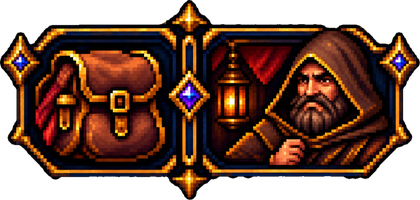
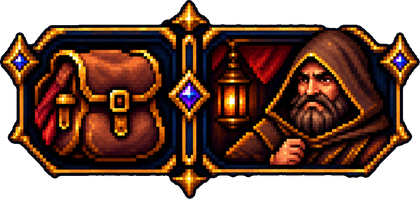
v85: contorno do botao com espessura uniforme
Claude-Session: https://claude.ai/code/session_01YFC38PcyDKAfPNhJ7r1cKG

diff --git a/sw.js b/sw.js
@@ -1,4 +1,4 @@
-const CACHE='bd1-rpg-v84';
+const CACHE='bd1-rpg-v85';
 const ASSETS=['./','./index.html','./game.html','./lobby.js','./bag_panel.png','./bag_button.png','./menu_meta.js','./menu_assassin.png','./menu_mage.png','./menu_knight.png','./menu_tank.png','./menu_elem.png','./icon_tipo_sword.png','./lobby.css','./select_plate.webp','./char_mage.webp','./char_knight.webp','./char_tank.webp','./char_assassin.webp','./panel_mage.webp','./panel_knight.webp','./panel_tank.webp','./panel_assassin.webp','./style.css','./app.js','./anim.js','./mage.js','./cleric.js','./tank.js','./knight.js','./fxsoft.js','./knight/K1_1.png','./knight/K1_10.png','./knight/K1_11.png','./knight/K1_13.png','./knight/K1_14.png','./knight/K1_15.png','./knight/K1_19.png','./knight/K1_2.png','./knight/K1_20.png','./knight/K1_21.png','./knight/K1_22.png','./knight/K1_23.png','./knight/K1_24.png','./knight/K1_25.png','./knight/K1_26.png','./knight/K1_27.png','./knight/K1_28.png','./knight/K1_29.png','./knight/K1_30.png','./knight/K1_31.png','./knight/K1_32.png','./knight/K1_35.png','./knight/K1_37.png','./knight/K1_4.png','./knight/K1_41.png','./knight/K1_42.png','./knight/K1_44.png','./knight/K1_45.png','./knight/K1_46.png','./knight/K1_49.png','./knight/K1_5.png','./knight/K1_6.png','./knight/K1_7.png','./knight/K1_8.png','./knight/K1_9.png','./knight/K2_10.png','./knight/K2_11.png','./knight/K2_13.png','./knight/K2_14.png','./knight/K2_15.png','./knight/K2_16.png','./knight/K2_17.png','./knight/K2_18.png','./knight/K2_19.png','./knight/K2_2.png','./knight/K2_20.png','./knight/K2_21.png','./knight/K2_22.png','./knight/K2_23.png','./knight/K2_24.png','./knight/K2_25.png','./knight/K2_26.png','./knight/K2_28.png','./knight/K2_29.png','./knight/K2_3.png','./knight/K2_30.png','./knight/K2_32.png','./knight/K2_33.png','./knight/K2_34.png','./knight/K2_35.png','./knight/K2_37.png','./knight/K2_38.png','./knight/K2_39.png','./knight/K2_4.png','./knight/K2_41.png','./knight/K2_42.png','./knight/K2_43.png','./knight/K2_44.png','./knight/K2_45.png','./knight/K2_46.png','./knight/K2_5.png','./knight/K2_6.png','./knight/K2_7.png','./knight/K2_8.png','./knight/K2_9.png','./knight/K3_1.png','./knight/K3_10.png','./knight/K3_11.png','./knight/K3_12.png','./knight/K3_13.png','./knight/K3_14.png','./knight/K3_15.png','./knight/K3_16.png','./knight/K3_17.png','./knight/K3_18.png','./knight/K3_2.png','./knight/K3_20.png','./knight/K3_21.png','./knight/K3_22.png','./knight/K3_23.png','./knight/K3_24.png','./knight/K3_25.png','./knight/K3_26.png','./knight/K3_27.png','./knight/K3_28.png','./knight/K3_29.png','./knight/K3_3.png','./knight/K3_30.png','./knight/K3_31.png','./knight/K3_32.png','./knight/K3_33.png','./knight/K3_34.png','./knight/K3_35.png','./knight/K3_36.png','./knight/K3_37.png','./knight/K3_38.png','./knight/K3_39.png','./knight/K3_4.png','./knight/K3_40.png','./knight/K3_41.png','./knight/K3_42.png','./knight/K3_43.png','./knight/K3_44.png','./knight/K3_45.png','./knight/K3_46.png','./knight/K3_47.png','./knight/K3_48.png','./knight/K3_5.png','./knight/K3_6.png','./knight/K3_7.png','./knight/K3_8.png','./knight/K3_9.png','./knight/fx_ice.png','./knight/fx_rocksA.png','./knight/fx_rock1.png','./knight/fx_rock2.png','./knight/fx_rock3.png','./knight/fx_rock4.png','./knight/fx_slash.png','./knight/meta.json','./clr/at1.png','./clr/at2.png','./clr/at3.png','./clr/bg1.png','./clr/bg2.png','./clr/bg3.png','./clr/bg4.png','./clr/bp1.png','./clr/bp2.png','./clr/bp3.png','./clr/br1.png','./clr/br2.png','./clr/br3.png','./clr/br4.png','./clr/br5.png','./clr/br6.png','./clr/bt1.png','./clr/bt2.png','./clr/bt3.png','./clr/bt4.png','./clr/d1.png','./clr/d2.png','./clr/d3.png','./clr/d4.png','./clr/dg1.png','./clr/dg2.png','./clr/dg3.png','./clr/dn1.png','./clr/dn2.png','./clr/dn3.png','./clr/ds1.png','./clr/ex1.png','./clr/fx_aura.png','./clr/fx_burst.png','./clr/fx_cross1.png','./clr/fx_lotus.png','./clr/fx_pillar.png','./clr/fx_pillar2.png','./clr/fx_ring1.png','./clr/fx_ring2.png','./clr/fx_ring3.png','./clr/fx_star1.png','./clr/fx_star2.png','./clr/fx_star3.png','./clr/fx_star4.png','./clr/fx_streak1.png','./clr/fx_streak2.png','./clr/fx_streak3.png','./clr/fx_sunstar.png','./clr/hat1.png','./clr/hat2.png','./clr/idle1.png','./clr/meta.json','./clr/pr1.png','./clr/pr2.png','./clr/stf.png','./clr/ult1.png','./clr/ult2.png','./clr/v1.png','./clr/v2.png','./mage3/air.png','./mage3/atk1.png','./mage3/atk2.png','./mage3/atk3.png','./mage3/bh1.png','./mage3/bh2.png','./mage3/castdef.png','./mage3/defair.png','./mage3/defearth.png','./mage3/deffire.png','./mage3/defmana.png','./mage3/defwater.png','./mage3/dodge1.png','./mage3/dodge2.png','./mage3/dodge3.png','./mage3/dodge4.png','./mage3/earth.png','./mage3/fire.png','./mage3/fx_air_swirl.png','./mage3/fx_bh_big.png','./mage3/fx_bh_big2.png','./mage3/fx_bh_small.png','./mage3/fx_bh_spikes.png','./mage3/fx_bolt.png','./mage3/fx_comet.png','./mage3/fx_cross.png','./mage3/fx_crystal.png','./mage3/fx_earth_spikes.png','./mage3/fx_fire_fall.png','./mage3/fx_mana_aura.png','./mage3/fx_orb_blue.png','./mage3/fx_orb_orange.png','./mage3/fx_orb_red.png','./mage3/fx_orbb.png','./mage3/fx_ring_floor.png','./mage3/fx_rock.png','./mage3/fx_rocks.png','./mage3/fx_star_big.png','./mage3/fx_star_small.png','./mage3/fx_water_pillar.png','./mage3/fx_whirl.png','./mage3/idle1.png','./mage3/idle2.png','./mage3/idle3.png','./mage3/idle4.png','./mage3/meta.json','./mage3/spin1.png','./mage3/spinwide.png','./mage3/stars.png','./mage3/swingf.png','./mage3/swingl.png','./mage3/swingr.png','./mage3/water.png','./anim/manifest.json','./spr_mage.webp','./spr_knight.webp','./spr_tank.webp','./spr_assassin.webp','./spr_boss.webp','./game_clean.png','./game_nohud.png','./hud_mage.png','./hud_knight.png','./hud_tank.png','./hud_assassin.png','./question_panel.png','./icon_attack.png','./icon_coin.png','./manifest.webmanifest','./potion_hp.png','./potion_mana.png','./tank/a_bub.png','./tank/a_cr.png','./tank/a_dust.png','./tank/a_hh.png','./tank/a_i1.png','./tank/a_i2.png','./tank/a_lo.png','./tank/a_rd.png','./tank/a_rl1.png','./tank/a_rl2.png','./tank/a_s1.png','./tank/a_s2.png','./tank/a_sw.png','./tank/a_swl.png','./tank/d_a1.png','./tank/d_a2.png','./tank/d_a3.png','./tank/d_a4.png','./tank/d_e1.png','./tank/d_e2.png','./tank/d_e3.png','./tank/d_e4.png','./tank/d_f1.png','./tank/d_f2.png','./tank/d_f3.png','./tank/d_h1.png','./tank/d_h2.png','./tank/d_h3.png','./tank/d_h4.png','./tank/d_i1.png','./tank/d_i2.png','./tank/d_i3.png','./tank/d_m1.png','./tank/d_m2.png','./tank/d_m3.png','./tank/d_m4.png','./tank/d_p1.png','./tank/d_p3.png','./tank/d_u1.png','./tank/d_u2.png','./tank/fx_bring.png','./tank/fx_bspike.png','./tank/fx_earth.png','./tank/fx_rockburst.png','./tank/meta.json','./tank/n1.png','./tank/n2.png','./tank/n3.png','./tank/p1.png','./tank/tA.png','./tank/tB.png','./tank/tC.png','./tank/v1.png','./tank/v2.png','./tank/v3.png','./tank/v4.png'];
 // Tudo em cache (abre instantâneo, até offline). Em segundo plano o SW confere a rede (requisição condicional, barata);
 // se algum arquivo mudou, atualiza o cache e avisa a página, que recarrega sozinha (menu) ou mostra o aviso (jogo).

diff --git a/README.md b/README.md
@@ -325,3 +325,4 @@ Guerreiro: âncora das poses trocada (centro do corpo azul + chão por percentil
 - v83: recorte do botão refeito (tudo dentro da borda dourada preservado, fora removido).
 - v84: recorte do botão inclui o contorno preto e o topo do capuz do mercador.
 - v84: botão do inventário com a borda escura externa preservada.
+- v85: contorno escuro do botão com espessura uniforme (7px na arte original).
